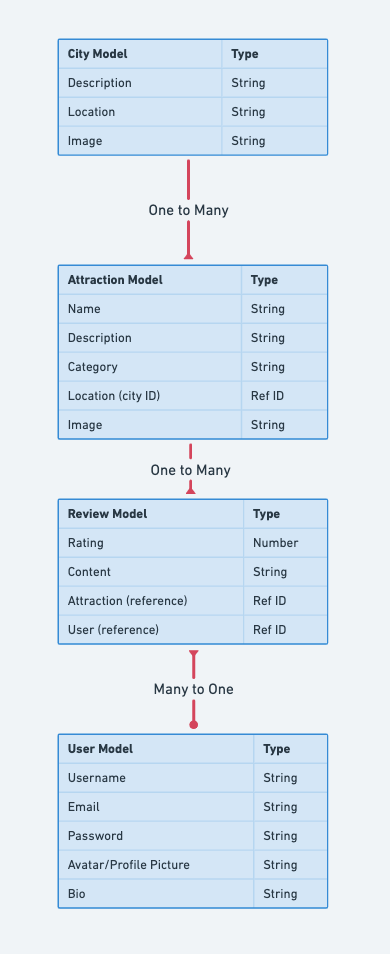
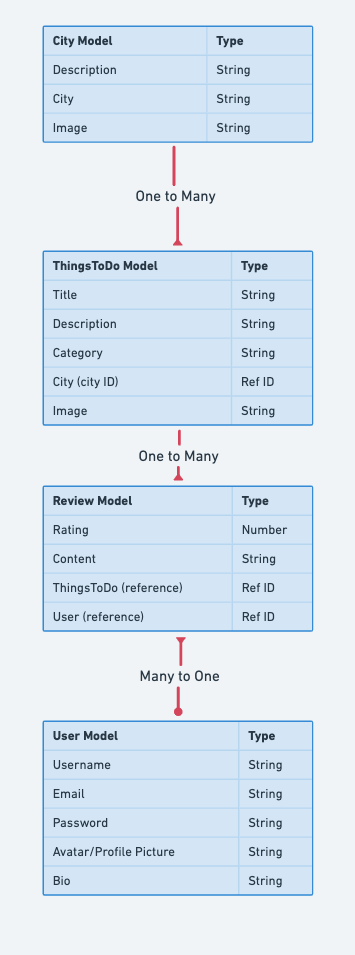
Created user, city, thingstodo, and review models

Changed region(s): [[0.093, 0.0, 0.8986, 0.9727]]

diff --git a/models/User.js b/models/User.js
@@ -1,0 +1,42 @@
+const mongoose = require('mongoose');
+
+const userSchema = new mongoose.Schema(
+    {
+        username: {
+            type: String,
+            required: [true, "Please Provide A Unique Username!"],
+            unique: true,
+        },
+
+        email: {
+            type: String,
+            required: [true, "Please Provide A Valid Email Address!"],
+            unique: true,
+        },
+
+        password: {
+            type: String,
+            required: [true, "Please Provide A Unique Password!"],
+        },
+
+        avatar: {
+            type: String,
+            required: [true, "Please Provide A Profile Picture!"],
+            default: "https://www.vippng.com/png/full/416-4161690_empty-profile-picture-blank-avatar-image-circle.png",
+        },
+
+        bio: {
+            type: String,
+            required: [true, "Please Provide Your User Bio!"],
+            default: "My bio...",
+        },
+    },
+
+    {
+        timestamps: true,
+    },
+);
+
+const User = mongoose.model('User', userSchema);
+
+module.exports = User;

diff --git a/models/ThingsToDo.js b/models/ThingsToDo.js
@@ -1,0 +1,35 @@
+const mongoose = require('mongoose');
+
+const thingsToDoSchema = new mongoose.Schema(
+    {
+        title: {
+            type: String,
+            required: true,
+        },
+
+        description: {
+            type: String,
+            required: true,
+        },
+
+        category: {
+            type: String,
+            required: true,
+        },
+
+        city: {
+            type: mongoose.Schema.Types.ObjectId,
+            ref: 'City',
+            required: true,
+        },
+
+        image: {
+            type: String,
+            required: true,
+        },
+    },
+);
+
+const ThingsToDo = mongoose.model('ThingsToDo', thingsToDoSchema);
+
+module.exports = ThingsToDo;

diff --git a/models/Review.js b/models/Review.js
@@ -1,0 +1,35 @@
+const mongoose = require('mongoose');
+
+const reviewSchema = new mongoose.Schema(
+    {
+        rating: {
+            type: Number,
+            required: true,
+        },
+
+        content: {
+            type: String,
+            required: true,
+        },
+
+        thingstodo: {
+            type: mongoose.Schema.Types.ObjectId,
+            ref: 'ThingsToDo',
+            required: true,
+        },
+
+        user: {
+            type: mongoose.Schema.Types.ObjectId,
+            ref: 'User',
+            required: true,
+        },
+    },
+
+    {
+        timestamps: true,
+    },
+);
+
+const Review = mongoose.model('Review', reviewSchema);
+
+module.exports = Review;

diff --git a/models/City.js b/models/City.js
@@ -1,0 +1,24 @@
+const mongoose = require('mongoose');
+
+const citySchema = new mongoose.Schema(
+    {
+        description: {
+            type: String,
+            required: true,
+        },
+
+        city: {
+            type: String,
+            required: true,
+        },
+
+        image: {
+            type: String,
+            required: true,
+        },
+    },
+);
+
+const City = mongoose.model('City', citySchema);
+
+module.exports = City;

diff --git a/models/index.js b/models/index.js
@@ -1,0 +1,6 @@
+module.exports = {
+    City: require('./City'),
+    Review: require('./Review'),
+    ThingsToDo: require('./ThingsToDo'),
+    User: require('./User'),
+};
